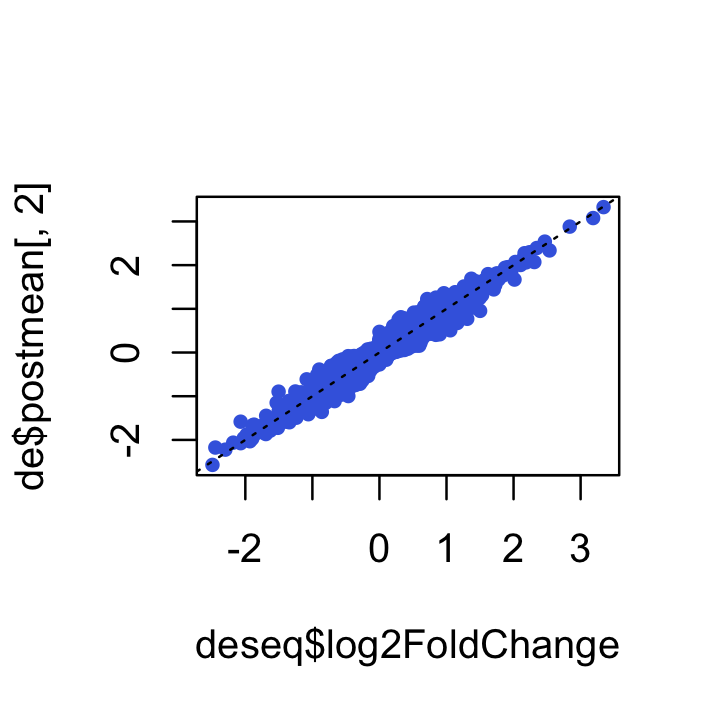
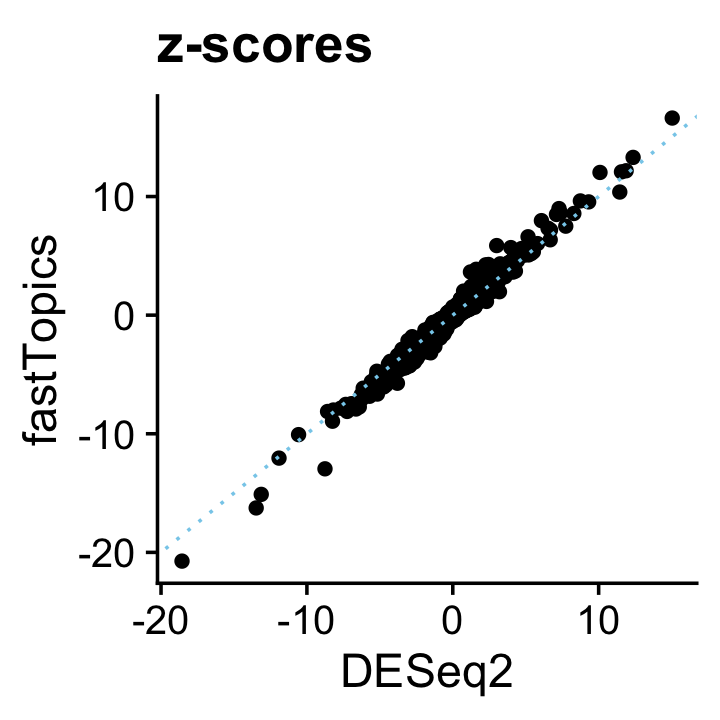
Added plots comparing deseq2 vs fastTopics in de_analysis_detailed_look.

diff --git a/docs/de_analysis_detailed_look.html b/docs/de_analysis_detailed_look.html
@@ -426,16 +426,16 @@ fit-poisson-nmf
 <div class="panel panel-default">
 <div class="panel-heading">
 <p class="panel-title">
-<a data-toggle="collapse" data-parent="#workflowr-checks" href="#strongRepositoryversionstrongahrefhttpsgithubcomstephenslabsinglecelltopicstree2e9deef49419c2cce2a5525f99590037cde925c6targetblank2e9deefa"> <span class="glyphicon glyphicon-ok text-success" aria-hidden="true"></span> <strong>Repository version:</strong> <a href="https://github.com/stephenslab/single-cell-topics/tree/2e9deef49419c2cce2a5525f99590037cde925c6" target="_blank">2e9deef</a> </a>
+<a data-toggle="collapse" data-parent="#workflowr-checks" href="#strongRepositoryversionstrongahrefhttpsgithubcomstephenslabsinglecelltopicstree1a55a9bbfdb0c09d6cc948bf2b816779055bb8a9targetblank1a55a9ba"> <span class="glyphicon glyphicon-ok text-success" aria-hidden="true"></span> <strong>Repository version:</strong> <a href="https://github.com/stephenslab/single-cell-topics/tree/1a55a9bbfdb0c09d6cc948bf2b816779055bb8a9" target="_blank">1a55a9b</a> </a>
 </p>
 </div>
[2 lines of base64/hex data omitted]
 <div class="panel-body">
 <p>
 Great! You are using Git for version control. Tracking code development and connecting the code version to the results is critical for reproducibility.
 </p>
 <p>
-The results in this page were generated with repository version <a href="https://github.com/stephenslab/single-cell-topics/tree/2e9deef49419c2cce2a5525f99590037cde925c6" target="_blank">2e9deef</a>. See the <em>Past versions</em> tab to see a history of the changes made to the R Markdown and HTML files.
+The results in this page were generated with repository version <a href="https://github.com/stephenslab/single-cell-topics/tree/1a55a9bbfdb0c09d6cc948bf2b816779055bb8a9" target="_blank">1a55a9b</a>. See the <em>Past versions</em> tab to see a history of the changes made to the R Markdown and HTML files.
 </p>
 <p>
 Note that you need to be careful to ensure that all relevant files for the analysis have been committed to Git prior to generating the results (you can use <code>wflow_publish</code> or <code>wflow_git_commit</code>). workflowr only checks the R Markdown file, but you know if there are other scripts or data files that it depends on. Below is the status of the Git repository when the results were generated:
@@ -498,6 +498,57 @@ Message
 </tr>
 </thead>
 <tbody>
+<tr>
+<td>
+Rmd
+</td>
+<td>
+<a href="https://github.com/stephenslab/single-cell-topics/blob/1a55a9bbfdb0c09d6cc948bf2b816779055bb8a9/analysis/de_analysis_detailed_look.Rmd" target="_blank">1a55a9b</a>
+</td>
+<td>
+Peter Carbonetto
+</td>
+<td>
+2021-10-15
+</td>
+<td>
+workflowr::wflow_publish(“de_analysis_detailed_look.Rmd”, verbose = TRUE)
+</td>
+</tr>
+<tr>
+<td>
+Rmd
+</td>
+<td>
+<a href="https://github.com/stephenslab/single-cell-topics/blob/365563fdd0769e961df1024180575cd09d56ec07/analysis/de_analysis_detailed_look.Rmd" target="_blank">365563f</a>
+</td>
+<td>
+Peter Carbonetto
+</td>
+<td>
+2021-10-15
+</td>
+<td>
+Working on comparison with DESeq2 in de_analysis_detailed_look.Rmd.
+</td>
+</tr>
+<tr>
+<td>
+html
+</td>
+<td>
+<a href="https://rawcdn.githack.com/stephenslab/single-cell-topics/365563fdd0769e961df1024180575cd09d56ec07/docs/de_analysis_detailed_look.html" target="_blank">365563f</a>
+</td>
+<td>
+Peter Carbonetto
+</td>
+<td>
+2021-10-15
+</td>
+<td>
+Working on comparison with DESeq2 in de_analysis_detailed_look.Rmd.
+</td>
+</tr>
 <tr>
 <td>
 Rmd
@@ -915,6 +966,17 @@ Date
 <tbody>
 <tr>
 <td>
+<a href="https://github.com/stephenslab/single-cell-topics/blob/365563fdd0769e961df1024180575cd09d56ec07/docs/figure/de_analysis_detailed_look.Rmd/sizes-1.png" target="_blank">365563f</a>
+</td>
+<td>
+Peter Carbonetto
+</td>
+<td>
+2021-10-15
+</td>
+</tr>
+<tr>
+<td>
 <a href="https://github.com/stephenslab/single-cell-topics/blob/7236187363d75fb8477a6a6c7c2b726f371083e0/docs/figure/de_analysis_detailed_look.Rmd/sizes-1.png" target="_blank">7236187</a>
 </td>
 <td>
@@ -979,6 +1041,17 @@ Date
 </tr>
 </thead>
 <tbody>
+<tr>
+<td>
+<a href="https://github.com/stephenslab/single-cell-topics/blob/365563fdd0769e961df1024180575cd09d56ec07/docs/figure/de_analysis_detailed_look.Rmd/gene-expression-rates-1.png" target="_blank">365563f</a>
+</td>
+<td>
+Peter Carbonetto
+</td>
+<td>
+2021-10-15
+</td>
+</tr>
 <tr>
 <td>
 <a href="https://github.com/stephenslab/single-cell-topics/blob/7236187363d75fb8477a6a6c7c2b726f371083e0/docs/figure/de_analysis_detailed_look.Rmd/gene-expression-rates-1.png" target="_blank">7236187</a>
@@ -1049,6 +1122,17 @@ Date
 </tr>
 </thead>
 <tbody>
+<tr>
+<td>
+<a href="https://github.com/stephenslab/single-cell-topics/blob/365563fdd0769e961df1024180575cd09d56ec07/docs/figure/de_analysis_detailed_look.Rmd/lfc-density-1.png" target="_blank">365563f</a>
+</td>
+<td>
+Peter Carbonetto
+</td>
+<td>
+2021-10-15
+</td>
+</tr>
 <tr>
 <td>
 <a href="https://github.com/stephenslab/single-cell-topics/blob/090a487cb2ec24118864979753d9f0340a892bb8/docs/figure/de_analysis_detailed_look.Rmd/lfc-density-1.png" target="_blank">090a487</a>
@@ -1464,7 +1548,7 @@ Peter Carbonetto
 </table>
 </div>
 </div>
-<p>To illustrate the impact of this on the DE analysis, consider the K-L divergence measure used in Dey, Hsiao &amp; Stephens (2017) to rank genes, a measure which doesn’t fully account for uncertainty in the LFCs. As a result, sometimes genes with very large LFCs get highly ranked, but after a full accounting for uncertainty, they are no longer ranked highly.</p>
+<p>To illustrate the impact of this on the DE analysis, consider the K-L divergence measure used in Dey, Hsiao &amp; Stephens (2017) to rank genes, a measure which doesn’t fully account for uncertainty in the LFCs. As a result, sometimes genes with very large LFCs get highly ranked, but after a full accounting for uncertainty, they are no longer ranked highly. (Since the K-L divergence is not a signed ranking measure like the <span class="math inline">\(z\)</span>-score, here we focus only on genes that are estimated to have greater expression in topic 2 compared to topic 1.)</p>
 <pre class="r"><code>i     &lt;- which(fit$F[,2] - fit$F[,1] &gt; -1e-8)
 D     &lt;- fastTopics:::min_kl_poisson(fit$F)
 pdat1 &lt;- data.frame(kl = pmin(D[,2],0.00025),de = factor(nonzero_lfc))
@@ -1494,7 +1578,7 @@ pdat  &lt;- rbind(cbind(pdat1,method = &quot;kl&quot;),
                cbind(pdat2,method = &quot;noshrink&quot;),
                cbind(pdat3,method = &quot;shrink&quot;))
 p12 &lt;- ggplot(pdat,aes(x = fdr,y = power,color = method)) +
-  geom_point(size = 0.75)  +
+  geom_point(size = 0.3)  +
   scale_color_manual(values = c(&quot;royalblue&quot;,&quot;limegreen&quot;,&quot;darkorange&quot;)) +
   theme_cowplot()
 print(p12)</code></pre>
@@ -1502,13 +1586,18 @@ print(p12)</code></pre>
 </div>
 <div id="comparison-with-deseq2" class="section level2">
 <h2>Comparison with DESeq2</h2>
-<p><em>Add text and code here.</em></p>
-<pre class="r"><code>i       &lt;- which(apply(L,1,max) &gt; 0.99)
-Y       &lt;- t(X[i,])
+<p>A very popular method for DE analysis in single-cell RNA sequencing data is DESeq2. Here we apply DESeq2 to these same UMI count data, and show that the fastTopics DE results are very similar to DESeq2. Since DESeq2 requires that each cell be assigned to a cluster, we apply DESeq2 to the subset of cells that were are almost entirely (&gt;99%) simulated from a single topic; approximatmely 2/3 of the cells were simulated from one topic, and about the remaining 1/3 of the cells were simulated from a mixture of the two topics. There may be a small loss of accuracy in the DESeq2 results since DESeq2 is using only 2/3 of the data, but overall we expect that the fastTopics DE analysis will closely replicate the DESeq2 analysis.</p>
+<pre class="r"><code>single_topic &lt;- apply(L,1,max) &gt; 0.99
+mean(single_topic)
+# [1] 0.655</code></pre>
+<p>These next few lines of code prepare the UMI count data for analysis with DESeq2.</p>
+<pre class="r"><code>i &lt;- which(single_topic)
+Y &lt;- t(X[i,])
 cluster &lt;- factor(apply(L,1,which.max))
-deseq   &lt;- DESeqDataSetFromMatrix(Y,data.frame(cluster = cluster[i]),~cluster)
-# converting counts to integer mode
-sizeFactors(deseq) &lt;- calculateSumFactors(Y)
+deseq &lt;- DESeqDataSetFromMatrix(Y,data.frame(cluster = cluster[i]),~cluster)
+# converting counts to integer mode</code></pre>
+<p>Now we perform the DE analysis using DESeq2, using the settings recommended for single-cell RNA-seq data (see the DESeq2 vignette for these recommendations in detail). To replicate the fastTopics analysis as closely as possible, we shrink the LFC estimates using adaptive shrinkage.</p>
+<pre class="r"><code>sizeFactors(deseq) &lt;- calculateSumFactors(Y)
 deseq &lt;- DESeq(deseq,test = &quot;LRT&quot;,reduced=~1,useT = TRUE,minmu = 1e-6,
                minReplicatesForReplace = Inf)
 # using pre-existing size factors
@@ -1523,11 +1612,27 @@ deseq &lt;- DESeq(deseq,test = &quot;LRT&quot;,reduced=~1,useT = TRUE,minmu = 1e
 deseq &lt;- lfcShrink(deseq,coef = &quot;cluster_2_vs_1&quot;,type = &quot;ashr&quot;)
 # using &#39;ashr&#39; for LFC shrinkage. If used in published research, please cite:
 #     Stephens, M. (2016) False discovery rates: a new deal. Biostatistics, 18:2.
-#     https://doi.org/10.1093/biostatistics/kxw041
-z.deseq &lt;- with(deseq,log2FoldChange/lfcSE)</code></pre>
-<p><em>Add text here.</em></p>
-<pre class="r"><code>plot(deseq$log2FoldChange,de$postmean[,2],pch = 20,col = &quot;royalblue&quot;)
-abline(a = 0,b = 1,col = &quot;black&quot;,lty = &quot;dotted&quot;)</code></pre>
+#     https://doi.org/10.1093/biostatistics/kxw041</code></pre>
+<p>The posterior mean estimates from the fastTopics DE analysis closely align with the DESeq2 estimates:</p>
+<pre class="r"><code>pdat &lt;- data.frame(DESeq2     = deseq$log2FoldChange,
+                   fastTopics = de$postmean[,2])
+p14 &lt;- ggplot(pdat,aes(x = DESeq2,y = fastTopics)) +
+  geom_point() +
+  geom_abline(intercept = 0,slope = 1,color = &quot;skyblue&quot;,linetype = &quot;dotted&quot;) +
+  ggtitle(&quot;LFC estimates&quot;) +
+  theme_cowplot()
+print(p14)</code></pre>
+<p><img src="figure/de_analysis_detailed_look.Rmd/fasttopics-vs-deseq2-lfc-1.png" width="360" style="display: block; margin: auto;" /></p>
+<p>And likewise for the <span class="math inline">\(z\)</span>-scores:</p>
+<pre class="r"><code>deseq$z &lt;- with(deseq,log2FoldChange/lfcSE)
+pdat &lt;- data.frame(DESeq2     = deseq$z,
+                   fastTopics = de$z[,2])
+p15 &lt;- ggplot(pdat,aes(x = DESeq2,y = fastTopics)) +
+  geom_point() +
+  geom_abline(intercept = 0,slope = 1,color = &quot;skyblue&quot;,linetype = &quot;dotted&quot;) +
+  ggtitle(&quot;z-scores&quot;) +
+  theme_cowplot()
+print(p15)</code></pre>
 <p><img src="figure/de_analysis_detailed_look.Rmd/fasttopics-vs-deseq2-zscores-1.png" width="360" style="display: block; margin: auto;" /></p>
 <p>
 <button type="button" class="btn btn-default btn-xs btn-workflowr btn-workflowr-fig" data-toggle="collapse" data-target="#fig-fasttopics-vs-deseq2-zscores-1">
@@ -1566,68 +1671,24 @@ Peter Carbonetto
 </table>
 </div>
 </div>
-<pre class="r"><code>plot(z.deseq,de$z[,2],pch = 20,col = &quot;royalblue&quot;)
-abline(a = 0,b = 1,col = &quot;black&quot;,lty = &quot;dotted&quot;)</code></pre>
-<p><img src="figure/de_analysis_detailed_look.Rmd/fasttopics-vs-deseq2-zscores-2-1.png" width="360" style="display: block; margin: auto;" /></p>
-<p>
-<button type="button" class="btn btn-default btn-xs btn-workflowr btn-workflowr-fig" data-toggle="collapse" data-target="#fig-fasttopics-vs-deseq2-zscores-2-1">
-Past versions of fasttopics-vs-deseq2-zscores-2-1.png
-</button>
-</p>
-<div id="fig-fasttopics-vs-deseq2-zscores-2-1" class="collapse">
-<div class="table-responsive">
-<table class="table table-condensed table-hover">
-<thead>
-<tr>
-<th>
-Version
-</th>
-<th>
-Author
-</th>
-<th>
-Date
-</th>
-</tr>
-</thead>
-<tbody>
-<tr>
-<td>
-<a href="https://github.com/stephenslab/single-cell-topics/blob/090a487cb2ec24118864979753d9f0340a892bb8/docs/figure/de_analysis_detailed_look.Rmd/fasttopics-vs-deseq2-zscores-2-1.png" target="_blank">090a487</a>
-</td>
-<td>
-Peter Carbonetto
-</td>
-<td>
-2021-10-15
-</td>
-</tr>
-</tbody>
-</table>
-</div>
-</div>
-<p><em>Add text here.</em></p>
+<p>The <span class="math inline">\(p\)</span>-value and LFSR distributions are also correspondingly similar in shape:</p>
 <pre class="r"><code>pdat &lt;- data.frame(deseq2 = deseq$padj,
                    shrink = de$lfsr[,2],
                    de     = factor(nonzero_lfc))
-p1 &lt;- ggplot(pdat,aes(x = deseq2,color = de,fill = de)) +
+p16 &lt;- ggplot(pdat,aes(x = deseq2,color = de,fill = de)) +
   geom_histogram(bins = 64) +
   scale_color_manual(values = c(&quot;darkorange&quot;,&quot;darkblue&quot;)) +
   scale_fill_manual(values = c(&quot;darkorange&quot;,&quot;darkblue&quot;)) +
-  labs(x = &quot;p-value&quot;,y = &quot;genes&quot;,title = &quot;deseq with shrinkage&quot;) +
-  theme_cowplot() +
-  theme(plot.title = element_text(size = 12,face = &quot;plain&quot;))
-p2 &lt;- ggplot(pdat,aes(x = shrink,color = de,fill = de)) +
+  labs(x = &quot;p-value&quot;,y = &quot;genes&quot;,title = &quot;DESeq2&quot;) +
+  theme_cowplot()
+p17 &lt;- ggplot(pdat,aes(x = shrink,color = de,fill = de)) +
   geom_histogram(bins = 64) +
   scale_color_manual(values = c(&quot;darkorange&quot;,&quot;darkblue&quot;)) +
   scale_fill_manual(values = c(&quot;darkorange&quot;,&quot;darkblue&quot;)) +
-  labs(x = &quot;lfsr&quot;,y = &quot;genes&quot;,
-       title = &quot;de_analysis(shrink.method = \&quot;ash\&quot;)&quot;) +
-  theme_cowplot() +
-  theme(plot.title = element_text(size = 12,face = &quot;plain&quot;))
-print(plot_grid(p1,p2))
-# Warning: Removed 3326 rows containing non-finite values (stat_bin).</code></pre>
-<p><img src="figure/de_analysis_detailed_look.Rmd/fasttopics-vs-deseq2-pvalues-1.png" width="720" style="display: block; margin: auto;" /></p>
+  labs(x = &quot;lfsr&quot;,y = &quot;genes&quot;,title = &quot;fastTopics&quot;) +
+  theme_cowplot()
+print(plot_grid(p16,p17))</code></pre>
+<p><img src="figure/de_analysis_detailed_look.Rmd/fasttopics-vs-deseq2-pvalues-1.png" width="960" style="display: block; margin: auto;" /></p>
 <p>
 <button type="button" class="btn btn-default btn-xs btn-workflowr btn-workflowr-fig" data-toggle="collapse" data-target="#fig-fasttopics-vs-deseq2-pvalues-1">
 Past versions of fasttopics-vs-deseq2-pvalues-1.png
@@ -1665,7 +1726,17 @@ Peter Carbonetto
 </table>
 </div>
 </div>
-<p><em>TO DO: Add power vs. FDR plots comparing DESeq2 and fastTopics.</em></p>
+<p>And therefore the performance of the two DE methods for discovering differentially expressed genes is very similar, with the slight advantage given to fastTopics:</p>
+<pre class="r"><code>pdat1 &lt;- create_fdr_vs_power_curve(deseq$padj,nonzero_lfc)
+pdat2 &lt;- create_fdr_vs_power_curve(de$lfsr[,2],nonzero_lfc)
+pdat  &lt;- rbind(cbind(pdat1,method = &quot;DESeq2&quot;),
+               cbind(pdat2,method = &quot;fastTopics&quot;))
+p18 &lt;- ggplot(pdat,aes(x = fdr,y = power,color = method)) +
+  geom_point(size = 0.3)  +
+  scale_color_manual(values = c(&quot;darkblue&quot;,&quot;magenta&quot;)) +
+  theme_cowplot()
+print(p18)</code></pre>
+<p><img src="figure/de_analysis_detailed_look.Rmd/fasttopics-vs-deseq2-power-1.png" width="540" style="display: block; margin: auto;" /></p>
 <br>
 <p>
 <button type="button" class="btn btn-default btn-workflowr btn-workflowr-sessioninfo" data-toggle="collapse" data-target="#workflowr-sessioninfo" style="display: block;">
@@ -1703,43 +1774,42 @@ Peter Carbonetto
 # loaded via a namespace (and not attached):
 #   [1] Rtsne_0.15               ggbeeswarm_0.6.0         colorspace_1.4-1        
 #   [4] ellipsis_0.3.2           rprojroot_1.3-2          XVector_0.26.0          
-#   [7] BiocNeighbors_1.2.0      fs_1.3.1                 rstudioapi_0.13         
-#  [10] farver_2.0.1             MatrixModels_0.4-1       ggrepel_0.9.1           
-#  [13] bit64_0.9-7              AnnotationDbi_1.48.0     fansi_0.4.0             
-#  [16] splines_3.6.2            geneplotter_1.64.0       knitr_1.26              
-#  [19] scater_1.14.6            jsonlite_1.7.2           workflowr_1.6.2         
-#  [22] mcmc_0.9-6               annotate_1.64.0          ashr_2.2-51             
-#  [25] httr_1.4.2               compiler_3.6.2           dqrng_0.2.1             
-#  [28] backports_1.1.5          lazyeval_0.2.2           assertthat_0.2.1        
-#  [31] limma_3.42.2             later_1.0.0              BiocSingular_1.2.2      
-#  [34] prettyunits_1.1.1        htmltools_0.4.0          quantreg_5.54           
-#  [37] tools_3.6.2              rsvd_1.0.2               igraph_1.2.5            
-#  [40] coda_0.19-3              gtable_0.3.0             glue_1.4.2              
-#  [43] GenomeInfoDbData_1.2.2   dplyr_1.0.7              Rcpp_1.0.7              
-#  [46] vctrs_0.3.8              DelayedMatrixStats_1.6.1 xfun_0.11               
-#  [49] stringr_1.4.0            ps_1.6.0                 lifecycle_1.0.0         
-#  [52] irlba_2.3.3              statmod_1.4.34           XML_3.99-0.3            
-#  [55] edgeR_3.28.1             zlibbioc_1.32.0          MASS_7.3-51.4           
-#  [58] scales_1.1.0             hms_1.1.0                promises_1.1.0          
-#  [61] SparseM_1.78             RColorBrewer_1.1-2       yaml_2.2.0              
-#  [64] memoise_1.1.0            gridExtra_2.3            SQUAREM_2017.10-1       
-#  [67] stringi_1.4.3            RSQLite_2.2.0            genefilter_1.68.0       
-#  [70] truncnorm_1.0-8          rlang_0.4.11             pkgconfig_2.0.3         
-#  [73] bitops_1.0-6             invgamma_1.1             evaluate_0.14           
-#  [76] lattice_0.20-38          purrr_0.3.4              labeling_0.3            
-#  [79] htmlwidgets_1.5.1        bit_1.1-15.2             processx_3.5.2          
-#  [82] tidyselect_1.1.1         magrittr_2.0.1           R6_2.4.1                
-#  [85] generics_0.0.2           DBI_1.1.0                withr_2.4.2             
-#  [88] pillar_1.6.2             whisker_0.4              mixsqp_0.3-46           
-#  [91] survival_3.1-8           RCurl_1.98-1.2           tibble_3.1.3            
-#  [94] crayon_1.4.1             utf8_1.1.4               plotly_4.9.2            
-#  [97] rmarkdown_2.3            progress_1.2.2           viridis_0.5.1           
-# [100] locfit_1.5-9.4           grid_3.6.2               data.table_1.12.8       
-# [103] blob_1.2.1               callr_3.7.0              git2r_0.26.1            
-# [106] digest_0.6.23            xtable_1.8-4             tidyr_1.1.3             
-# [109] httpuv_1.5.2             MCMCpack_1.4-5           RcppParallel_4.4.2      
-# [112] munsell_0.5.0            beeswarm_0.2.3           viridisLite_0.3.0       
-# [115] vipor_0.4.5              quadprog_1.5-8</code></pre>
+#   [7] BiocNeighbors_1.2.0      fs_1.3.1                 farver_2.0.1            
+#  [10] MatrixModels_0.4-1       ggrepel_0.9.1            bit64_0.9-7             
+#  [13] AnnotationDbi_1.48.0     fansi_0.4.0              splines_3.6.2           
+#  [16] geneplotter_1.64.0       knitr_1.26               scater_1.14.6           
+#  [19] jsonlite_1.7.2           workflowr_1.6.2          mcmc_0.9-6              
+#  [22] annotate_1.64.0          ashr_2.2-51              httr_1.4.2              
+#  [25] compiler_3.6.2           dqrng_0.2.1              backports_1.1.5         
+#  [28] lazyeval_0.2.2           assertthat_0.2.1         limma_3.42.2            
+#  [31] later_1.0.0              BiocSingular_1.2.2       prettyunits_1.1.1       
+#  [34] htmltools_0.4.0          quantreg_5.54            tools_3.6.2             
+#  [37] rsvd_1.0.2               igraph_1.2.5             coda_0.19-3             
+#  [40] gtable_0.3.0             glue_1.4.2               GenomeInfoDbData_1.2.2  
+#  [43] dplyr_1.0.7              Rcpp_1.0.7               vctrs_0.3.8             
+#  [46] DelayedMatrixStats_1.6.1 xfun_0.11                stringr_1.4.0           
+#  [49] lifecycle_1.0.0          irlba_2.3.3              statmod_1.4.34          
+#  [52] XML_3.99-0.3             edgeR_3.28.1             zlibbioc_1.32.0         
+#  [55] MASS_7.3-51.4            scales_1.1.0             hms_1.1.0               
+#  [58] promises_1.1.0           SparseM_1.78             RColorBrewer_1.1-2      
+#  [61] yaml_2.2.0               memoise_1.1.0            gridExtra_2.3           
+#  [64] stringi_1.4.3            RSQLite_2.2.0            SQUAREM_2017.10-1       
+#  [67] genefilter_1.68.0        truncnorm_1.0-8          rlang_0.4.11            
+#  [70] pkgconfig_2.0.3          bitops_1.0-6             invgamma_1.1            
+#  [73] evaluate_0.14            lattice_0.20-38          purrr_0.3.4             
+#  [76] labeling_0.3             htmlwidgets_1.5.1        bit_1.1-15.2            
+#  [79] tidyselect_1.1.1         magrittr_2.0.1           R6_2.4.1                
+#  [82] generics_0.0.2           DBI_1.1.0                withr_2.4.2             
+#  [85] pillar_1.6.2             whisker_0.4              mixsqp_0.3-46           
+#  [88] survival_3.1-8           RCurl_1.98-1.2           tibble_3.1.3            
+#  [91] crayon_1.4.1             utf8_1.1.4               plotly_4.9.2            
+#  [94] rmarkdown_2.3            progress_1.2.2           viridis_0.5.1           
+#  [97] locfit_1.5-9.4           grid_3.6.2               data.table_1.12.8       
+# [100] blob_1.2.1               git2r_0.26.1             digest_0.6.23           
+# [103] xtable_1.8-4             tidyr_1.1.3              httpuv_1.5.2            
+# [106] MCMCpack_1.4-5           RcppParallel_4.4.2       munsell_0.5.0           
+# [109] beeswarm_0.2.3           viridisLite_0.3.0        vipor_0.4.5             
+# [112] quadprog_1.5-8</code></pre>
 </div>
 </div>
 
